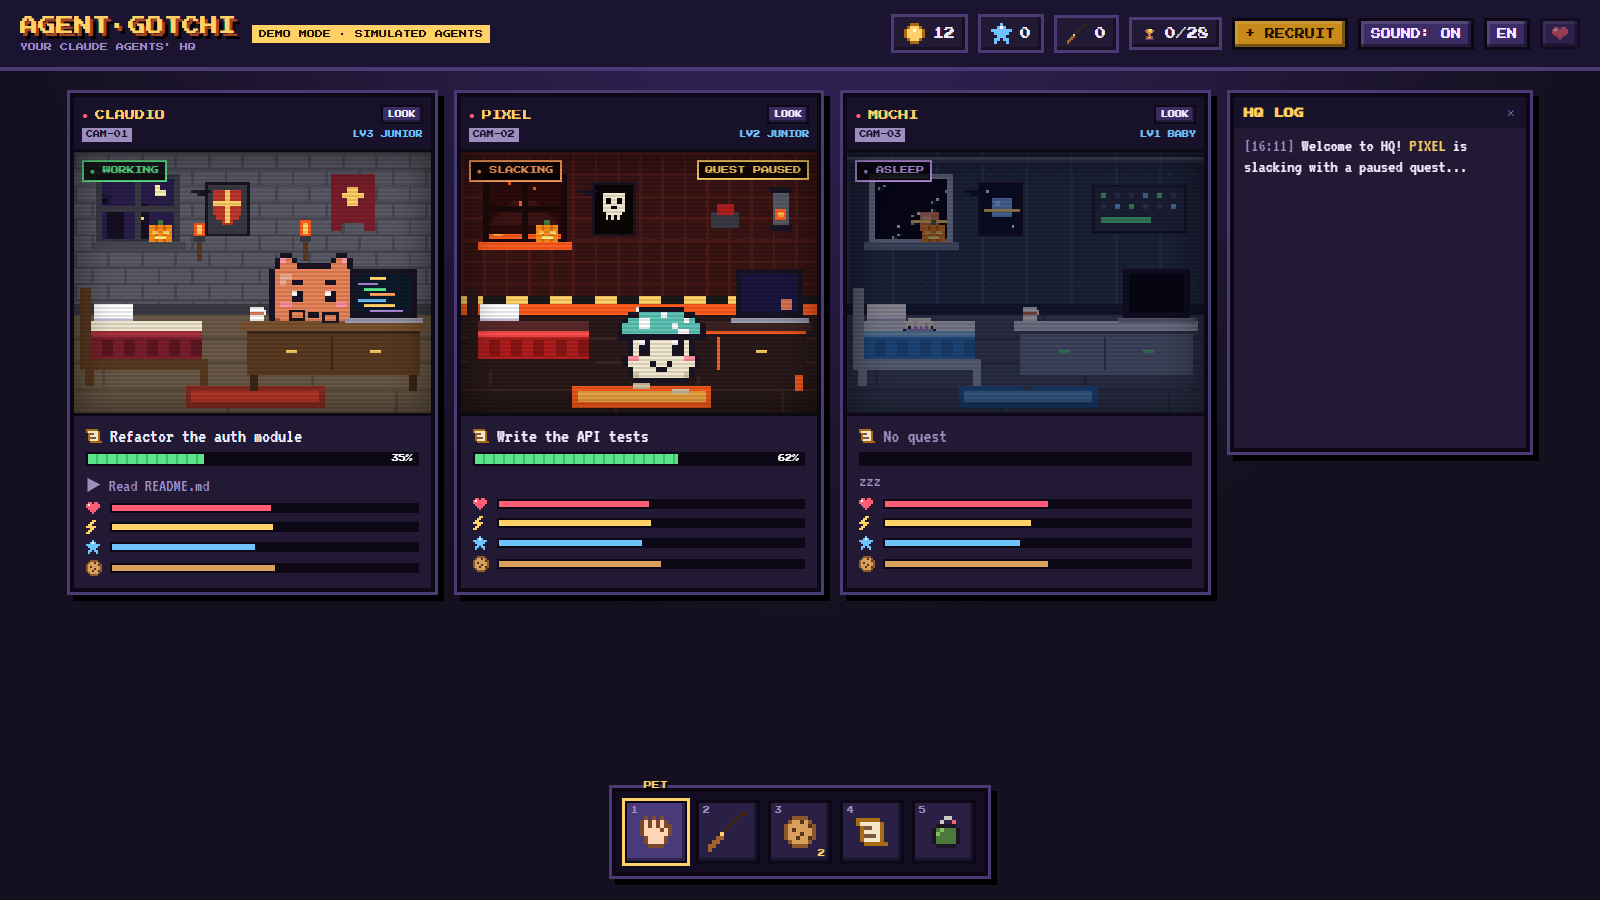
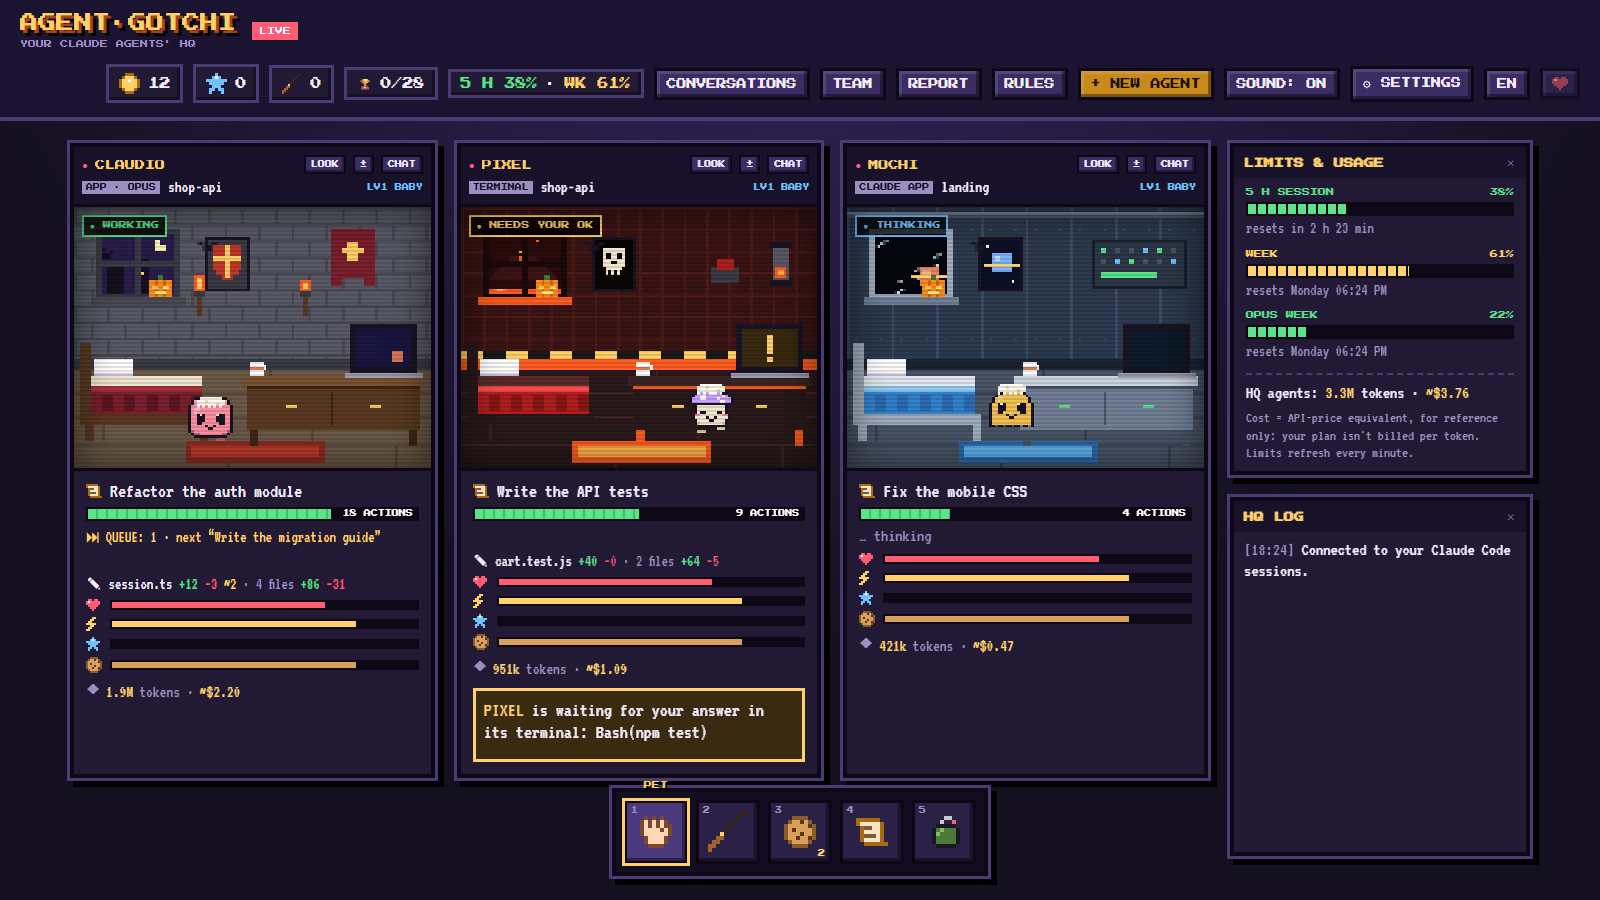
Update README screenshot to the live HQ
Show the current live mode (usage limits panel, queue, mini-diffs,
permission prompt, top-bar buttons) with sample sessions instead of
the old demo-mode capture.

diff --git a/README.md b/README.md
@@ -6,7 +6,7 @@ Every Claude Code session you run becomes a little pixel creature living in its 
 
 It's a game on the surface and a real control room underneath: live usage limits, changed files with diffs, a quest queue, permission rules, team missions, voice dictation and a daily report.
 
-![Agent·Gotchi in demo mode](docs/screenshot.png)
+![Agent·Gotchi HQ with three live Claude Code sessions (sample data)](docs/screenshot.png)
 
 > **Windows and macOS** (the macOS app is new: feedback welcome). Free for personal and noncommercial use, source available. Not affiliated with Anthropic or Bandai.
 
